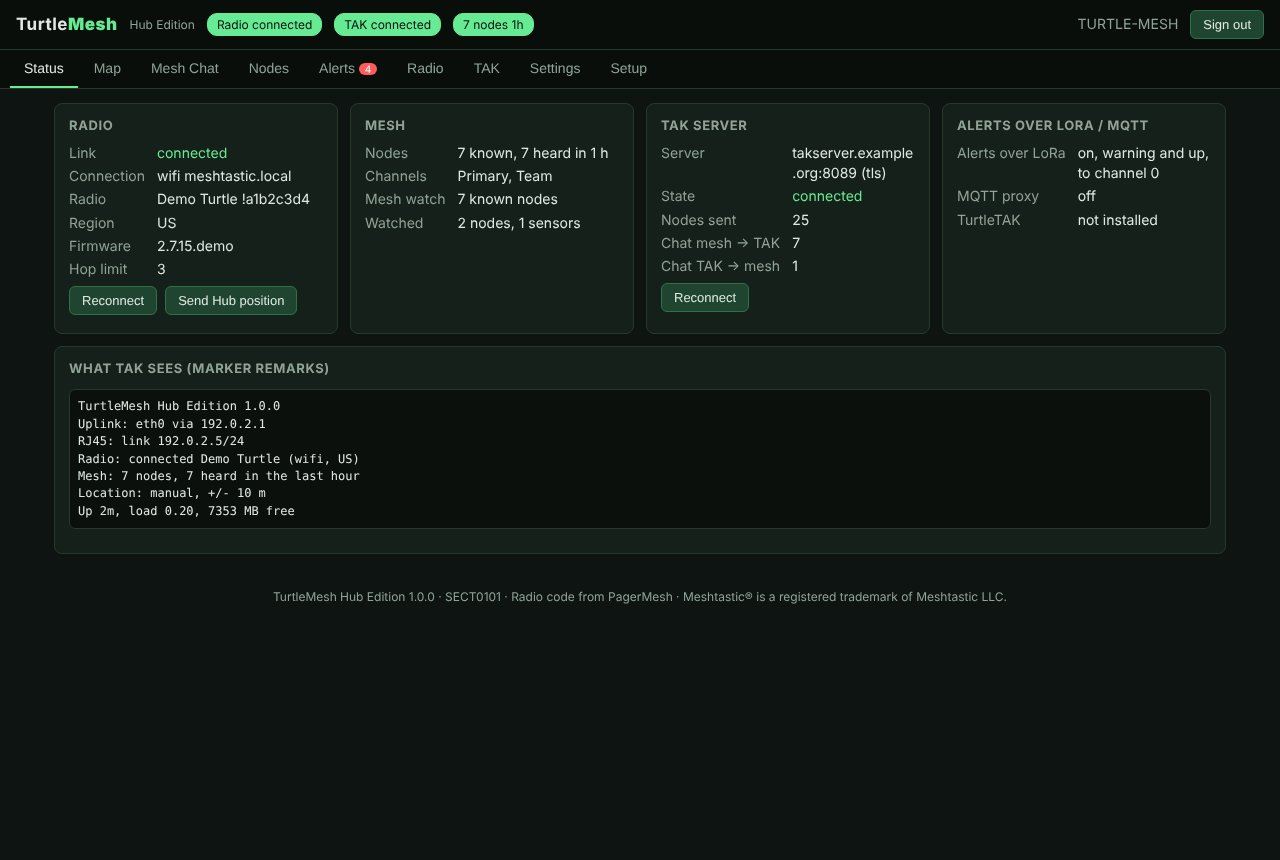
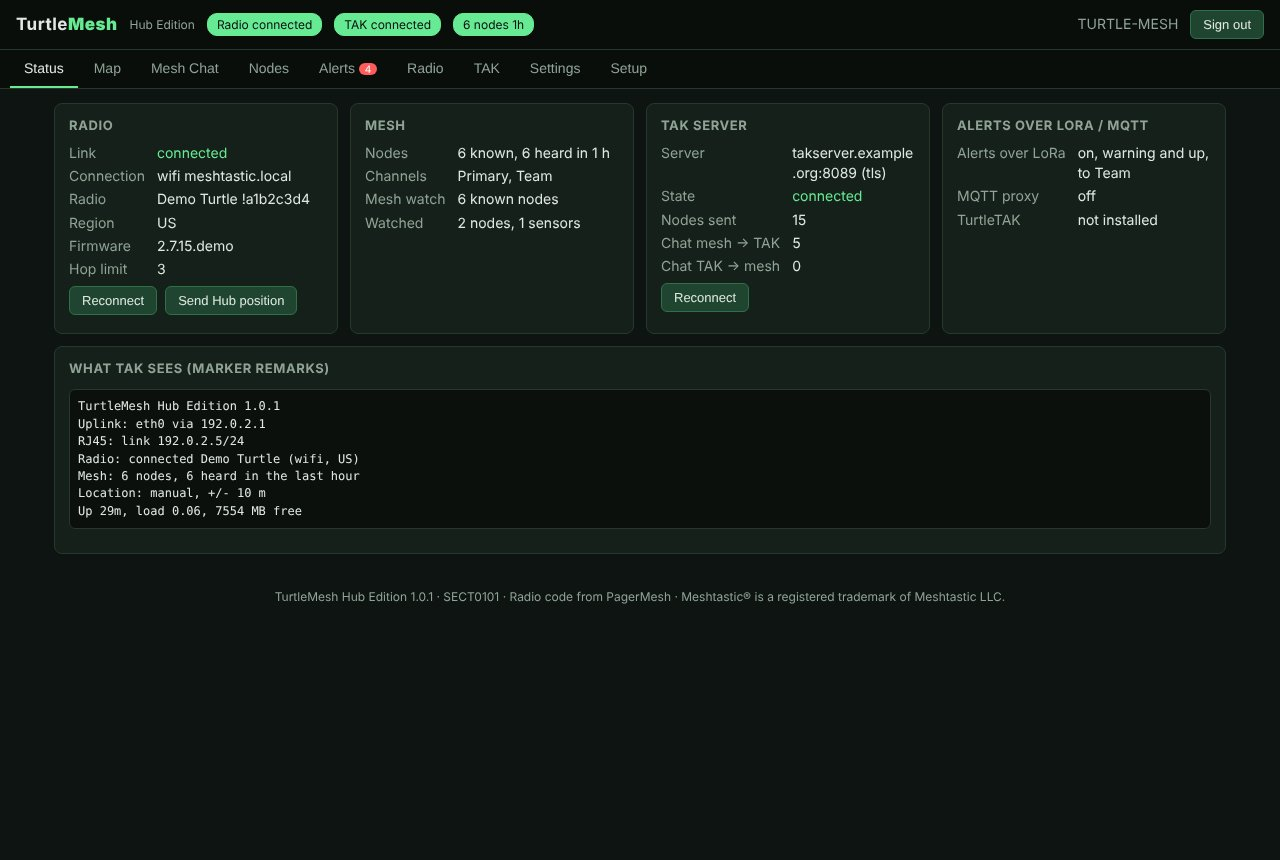
TurtleMesh Hub Edition 1.0.1

diff --git a/payloads/library/general/TurtleMesh-Hub/README.md b/payloads/library/general/TurtleMesh-Hub/README.md
@@ -16,13 +16,13 @@ The Hub connects to a Meshtastic radio over Wi-Fi or USB and serves a web consol
 | **Mesh chat** | Every channel, plus direct messages to any node, from the web console. Delivery status is shown for messages you send. |
 | **Nodes** | Every node heard: name, hardware, role, battery, SNR, hops, last heard, and range and bearing from the Hub. Give nodes labels, **traceroute** them, or **request a position**. Download the packet log as CSV or pcap. |
 | **Map** | Mesh nodes, TAK contacts and the Hub on the web map (Leaflet, built in). Tiles are cached on the Hub (USB storage when attached), and **Save this area offline** stores USGS maps for use without internet. |
-| **Hub on the mesh** | The Hub's position goes out on the mesh every `MESH_POS_INTERVAL` seconds (15 min), so other nodes see where it is. |
+| **Hub on the mesh** | Off until you pick a channel (Radio > *Hub position on the mesh*). Then the Hub's position goes out every `MESH_POS_INTERVAL` seconds (15 min), on a channel with its own key only. |
 | **Radio settings** | Long and short name; channels (name, role, new random key, default key or no encryption) and the share link; LoRa, device, position, telemetry, network, Bluetooth, MQTT, display and power settings; restart. |
 | **Mesh watch** | Learns which nodes belong for `MESH_LEARN_MIN` minutes (60), then raises **New mesh node** for any node not seen before. **Watch** a node to get **Node quiet** after `NODE_QUIET_MIN` minutes of silence (and **Node back**) and **Low battery** under `LOW_BATTERY` %. A quiet sensor node is critical. **Radio link lost / restored** too. |
 | **Sensors** | Detection-sensor packets (a radio running Meshtastic's detection-sensor module, like a door contact or PIR) become alerts. Mark a node as a **Sensor** and its text messages become alerts too. |
-| **Alerts over LoRa** | Alerts go out on a channel or as a DM (`LORA_ALERT_TO`), like `[TURTLE-MESH] WARN Node quiet: Gate 2 - Not heard on the mesh for 61m`. While **TurtleTAK** runs on the same Hub, its alerts (new devices, ARP spoofing, link tamper) go out too. |
+| **Alerts over LoRa** | Off until you choose where they go (Alerts tab): a channel, or a DM to one node (`LORA_ALERT_TO`). A public channel works but gets a warning, since alerts can carry device names, IP and MAC addresses. Alerts look like `[TURTLE-MESH] WARN Node quiet: Gate 2 - Not heard on the mesh for 61m`. While **TurtleTAK** runs on the same Hub, its alerts (new devices, ARP spoofing, link tamper) go out too. |
 | **DM commands** | Any node can direct-message the Hub's radio: `status`, `alerts`, `where`, `nodes`, `help`. Answers are short enough for LoRa. `MESH_COMMANDS_FROM` limits who can ask. |
-| **Mesh ↔ TAK** | Optional. Mesh nodes show on TAK as markers. One mesh channel and TAK All Chat Rooms carry each other's messages. Meshtastic **ATAK plugin** users (TAK packets on the mesh) show on the TAK Server with their callsign, team and role. Alerts go to TAK as markers and chat lines. TAK users can DM the Hub the same commands. |
+| **Mesh ↔ TAK** | Optional. Mesh nodes show on TAK as markers. One mesh channel and TAK All Chat Rooms carry each other's messages, once you pick a channel with its own key (a public channel can't be bridged). Meshtastic **ATAK plugin** users (TAK packets on the mesh) show on the TAK Server with their callsign, team and role. Alerts go to TAK as markers and chat lines. TAK users can DM the Hub the same commands. |
 | **MQTT proxy** | The Hub carries the radio's MQTT traffic to your own broker (`MQTT_HOST`), so a USB radio without Wi-Fi can still use MQTT. *Set up the radio for it* turns on the radio's MQTT client proxy. |
 | **Alert settings** | Each alert type on or off; the lowest level for TAK markers, TAK chat lines and LoRa; and quiet hours (for example `22-06`). |
 | **Web console** | Status, Map, Mesh Chat, Nodes, Alerts, Radio, TAK, Settings and Setup on port **8485**, on every interface: USB-C host, RJ45, Wi-Fi and VPN. Password protected. |
@@ -55,7 +55,7 @@ Web console, with demo data.
    - **Alerts over LoRa** (Alerts tab) and the **MQTT proxy** (Settings, then TAK > *Set up the radio for it*).
 6. *Run TurtleMesh at boot* is on by default.
 
-The Hub runs one payload at a time. TurtleMesh reads TurtleTAK's server settings whenever TurtleTAK is installed, but relays TurtleTAK's alerts over LoRa only while TurtleTAK is running.
+The Hub runs one payload at a time. TurtleMesh reads TurtleTAK's server settings whenever TurtleTAK is installed, but relays TurtleTAK's alerts over LoRa only while TurtleTAK is running. To run both, use [TurtleShell](https://github.com/SECT0101/TurtleShell): one payload that runs TurtleTAK and TurtleMesh together, shares the radio's GPS fix with TurtleTAK, and leaves the LED to TurtleTAK.
 
 Running the payload again restarts the service with that version. The service and web page in `/root/turtlemesh/app/` are rewritten on every run, and your settings, certificates, node labels and chat history are kept.
 
@@ -71,6 +71,16 @@ In **Auto**, TurtleMesh uses the first of these that has a usable position:
 6. **Network**: public IP location, city level only. TAK shows a 25 km circle.
 
 Phone positions count while they're newer than `ANCHOR_MAX_AGE` (30 min). Pick a **primary source** in Setup > Location to put it first; the rest stay as fallback in the same order.
+
+## Mesh channels and privacy
+
+Channel 0 on most meshes is public: it uses no key, the default key or a well-known "simple" key, so anyone with Meshtastic can read it. TurtleMesh sends nothing on any channel until you choose one:
+
+- **Alerts over LoRa**: off until you choose a channel or a node (Alerts tab). A public channel is allowed, with a warning.
+- **TAK chat bridge** and **Hub position**: only channels with their own key. Public channels are shown but can't be picked.
+- The Radio tab marks each channel's key as *public* or *private*. Use *new random key* there to make a private channel, then share it with the share link.
+
+Updating from 1.0.0 turns off the old channel 0 defaults once and posts a Hub notification, so you can pick channels.
 
 ## LED
 
@@ -98,16 +108,16 @@ Every setting is in `/root/turtlemesh/default.cfg` as `KEY: value`. Change them 
 | `CALLSIGN` | `TURTLE-MESH` | Name on TAK and in alerts |
 | `LOC_MODE` | `auto` | Primary location source: `auto`, `radio`, `gps`, `atak`, `mesh`, `site`, `manual` or `ip` |
 | `MY_ATAK` / `MY_NODE` | | Your ATAK callsign / your mesh node (`!a1b2c3d4`) for the phone sources |
-| `MESH_POS_INTERVAL` | `900` | Seconds between the Hub's positions on the mesh (`0` = off) |
+| `MESH_POS_CHANNEL` / `MESH_POS_INTERVAL` | `-1` / `900` | Channel for the Hub's position (`-1` = off; channels with their own key only) and seconds between positions |
 | `MESH_LEARN_MIN` | `60` | Minutes of learning before *New mesh node* alerts |
 | `NODE_QUIET_MIN` / `LOW_BATTERY` | `60` / `20` | Watched node limits |
-| `LORA_ALERTS` / `LORA_ALERT_MIN` | `1` / `warning` | Alerts over LoRa and the lowest level sent |
-| `LORA_ALERT_CHANNEL` / `LORA_ALERT_TO` | `0` / | Channel, or a `!node` id for DMs |
+| `LORA_ALERTS` / `LORA_ALERT_MIN` | `0` / `warning` | Alerts over LoRa and the lowest level sent |
+| `LORA_ALERT_CHANNEL` / `LORA_ALERT_TO` | / | Channel for alerts (none until you choose), or a `!node` id for DMs |
 | `LORA_ALERT_SOURCES` | `turtletak,turtlemesh` | Whose alerts go out over LoRa |
 | `MESH_COMMANDS_FROM` | | Blank = any node, or a list of `!node` ids |
 | `TAK` / `TAK_FROM_TURTLETAK` | `1` / `1` | TAK on, and use TurtleTAK's server and certificates |
 | `BRIDGE_NODES` / `BRIDGE_ATAK_PLUGIN` | `1` / `1` | Mesh nodes and ATAK plugin users on TAK |
-| `BRIDGE_CHAT_CHANNEL` | `0` | Mesh channel bridged to TAK All Chat Rooms (`-1` = off) |
+| `BRIDGE_CHAT_CHANNEL` | `-1` | Mesh channel bridged to TAK All Chat Rooms (`-1` = off; channels with their own key only) |
 | `MQTT_PROXY` / `MQTT_HOST` / `MQTT_PORT` | `0` / / `1883` | MQTT proxy to your broker (`MQTT_TLS`, `MQTT_USER`, `MQTT_PASSWORD`) |
 | `ALERTS_ON` | all types | Alert types that are raised |
 | `QUIET_HOURS` | | For example `22-06` |

diff --git a/README.md b/README.md
@@ -1,32 +1,52 @@
-# TurtleMesh
+# TurtleMesh – Meshtastic payloads for the Hak5 [LAN Turtle](https://hak5.org/products/lan-turtle-hub)
 
-<p align="center"><img src="docs/logo.png" width="260" alt="TurtleMesh"></p>
+<p align="center"><img src="docs/logo.png" width="260" alt="TurtleMesh Hub Edition: the turtle operator in Meshtastic green with the M-Powered badge"></p>
 
-Meshtastic payloads for the **Hak5 LAN Turtle** family. The LAN Turtle runs a Meshtastic radio, watches the mesh, sends alerts over LoRa, and can bridge the mesh to TAK.
+[![Buy Me a Coffee](https://img.shields.io/badge/Buy_me_a_coffee-support-FFDD00?logo=buymeacoffee&logoColor=black)](https://www.buymeacoffee.com/sect0101)
 
-| Edition | Device | Status |
-|---|---|---|
-| [**Hub Edition**](payloads/library/general/TurtleMesh-Hub/) | LAN Turtle Hub | 1.0.0 |
+Community payloads that put a **Meshtastic** radio on the **Hak5 LAN Turtle** family. The LAN Turtle runs the radio, watches the mesh, sends alerts over LoRa, and can bridge the mesh to the **TAK** ecosystem (ATAK, WinTAK, iTAK, WebTAK, CloudTAK).
 
-**Hub Edition** gives the Hub:
+**Payloads here are written in Bash + Python for the LAN Turtle Hub. They are community payloads and are not supported or guaranteed by Hak5.** See [Legal](#legal).
 
-- A Meshtastic radio over Wi-Fi or USB, with mesh chat, a node list and an offline map
-- Radio settings and channels, traceroute and position requests
-- Mesh watch alerts: new nodes, watched nodes going quiet, low battery, detection sensors
-- Alerts over LoRa, including TurtleTAK's while it runs
-- Direct-message commands from any node
-- An optional mesh ↔ TAK bridge, including Meshtastic ATAK plugin users
-- A private MQTT proxy to your own broker
-- A web console
+Also see [TurtleTAK](https://github.com/SECT0101/TurtleTAK) for TAK on the same Hub, [TurtleShell](https://github.com/SECT0101/TurtleShell) to run both from one payload, and [PagerMesh](https://github.com/SECT0101/PagerMesh) for Meshtastic on the WiFi Pineapple Pager. The radio code comes from PagerMesh.
 
-See its [README](payloads/library/general/TurtleMesh-Hub/README.md).
+---
 
-Part of the SECT0101 projects, with TurtleTAK, PagerMesh and PagerTAK. The radio code comes from PagerMesh.
+## Payloads
 
-> Meshtastic® is a registered trademark of Meshtastic LLC. Community project, not affiliated with Meshtastic or supported by Hak5.
+| Edition | Device | Version | Description |
+|---|---|---|---|
+| [TurtleMesh Hub Edition](payloads/library/general/TurtleMesh-Hub/) | LAN Turtle Hub | 1.0.1 | A Meshtastic radio over Wi-Fi or USB, with mesh chat, a node list and an offline map; radio settings and channels, traceroute and position requests; mesh watch alerts (new nodes, watched nodes going quiet, low battery, detection sensors); alerts over LoRa, including TurtleTAK's while it runs; direct-message commands from any node; an optional mesh ↔ TAK bridge, including Meshtastic ATAK plugin users; a private MQTT proxy to your own broker; location from the radio's GPS, a USB GPS, your phone, a site or the public IP; and a web console on port 8485. |
+
+## Repository layout
+
+```
+payloads/
+└── library/
+    └── general/
+        └── TurtleMesh-Hub/
+            ├── payload.sh      # the whole payload: Bash for the Hub, with the Python service and web console inside
+            └── README.md       # setup, features, location, LED, settings, files
+docs/
+├── logo.png                    # TurtleMesh Hub Edition
+└── web-*.jpg                   # web console screenshots (demo data)
+.github/
+├── FUNDING.yml                 # Buy Me a Coffee (Sponsor button)
+└── workflows/                  # shellcheck on every push; payload.sh attached to every release
+```
+
+Your settings, certificates, node labels and chat history live on the Hub under `/root/turtlemesh/`, outside the payload, so updating the payload never touches them.
+
+## Requirements
+
+- LAN Turtle Hub with Python 3
+- A Meshtastic radio on the same network (Wi-Fi), or on the Hub's dynamic USB port (native-USB radios such as the Heltec Wireless Tracker)
+- Optional: a TAK Server and a client certificate, or TurtleTAK on the same Hub
+
+## Legal
+
+Use these payloads only on networks and radio channels you own or are authorized to use, and follow your local radio rules. You are responsible for complying with all applicable laws and policies. Meshtastic® is a registered trademark of Meshtastic LLC. This project is not affiliated with or endorsed by Meshtastic, Hak5 or the TAK Product Center.
 
 ## License
 
-GPL-3.0. See [LICENSE](LICENSE).
-
-[Buy Me a Coffee](https://buymeacoffee.com/sect0101)
+[GPL-3.0](LICENSE). Leaflet is bundled under BSD-2-Clause; see [THIRD-PARTY-LICENSES.txt](THIRD-PARTY-LICENSES.txt).

diff --git a/CHANGELOG.md b/CHANGELOG.md
@@ -1,6 +1,16 @@
 # Changelog
 
-TurtleMesh versions. Newest first.
+TurtleMesh versions (the payload in `payloads/library/general/TurtleMesh-Hub`). Newest first.
+
+## Hub Edition 1.0.1
+- **Ready for TurtleShell**, the payload that runs TurtleTAK and TurtleMesh together: inside it, TurtleMesh leaves the Hub's LED to TurtleTAK.
+- **The radio's GPS fix is shared with TurtleTAK** while both run, so the Hub reports one position on TAK and the mesh.
+- **Nothing goes out on a mesh channel until you choose one.** Channel 0 is public on most meshes.
+  - Alerts over LoRa are off until you pick a channel or a node; a public channel gets a warning (alerts can carry device names, IP and MAC addresses).
+  - The TAK chat bridge and the Hub's position only use channels with their own key.
+  - The Radio tab marks each channel's key as public or private, and the Alerts tab says in plain words where alerts go right now.
+  - Updating from 1.0.0 turns off the old channel 0 defaults once, with a Hub notification.
+- **Windows line endings are fixed automatically**: a `payload.sh` pasted or saved on Windows now runs normally.
 
 ## Hub Edition 1.0.0
 - First release for the LAN Turtle Hub, as one `payload.sh`: Bash for the Hub commands, with a Python 3 service and a web page written from it.
